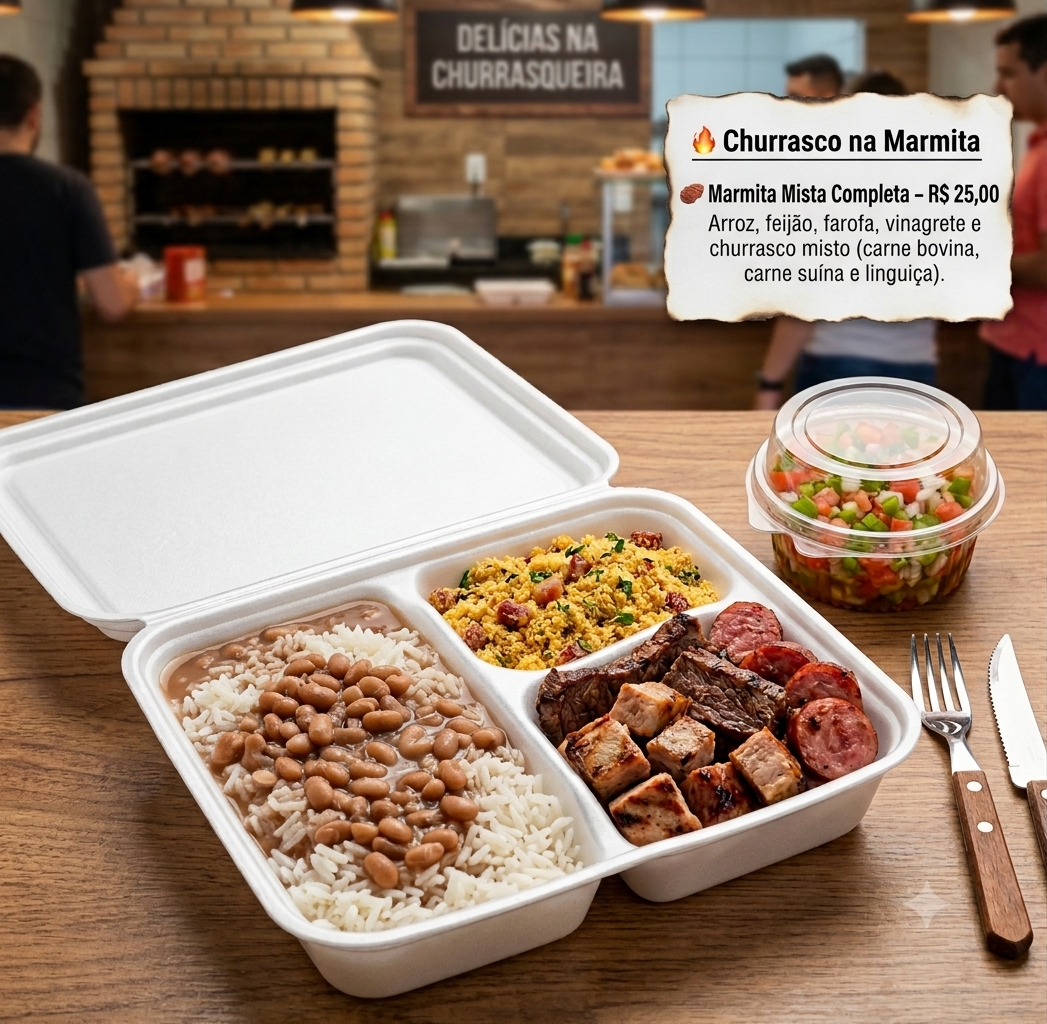
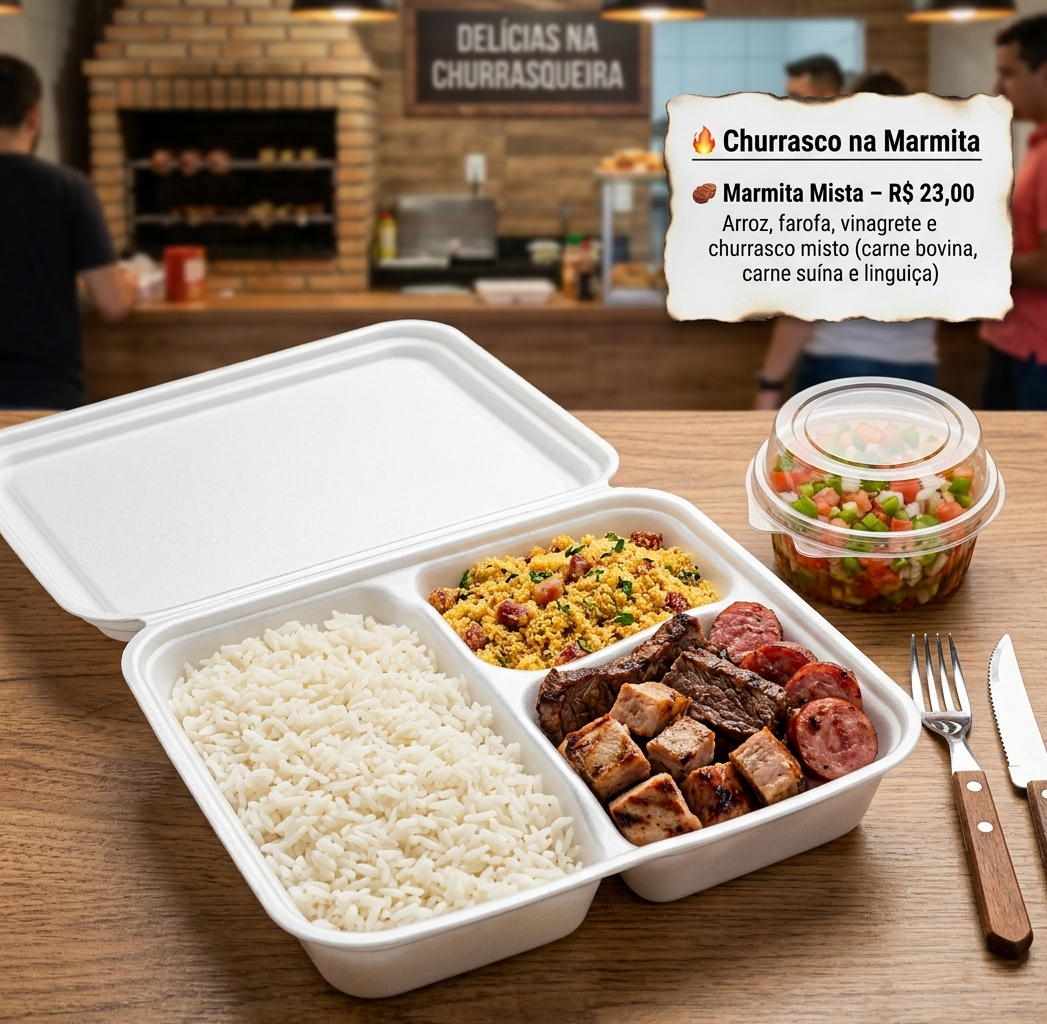
Todas as alterações foram aplicadas com sucesso. Aqui está o resumo do que foi feito:
Alteração	Descrição
Campo Bairro	Lista suspensa (<select>) com os 30 bairros, posicionada antes do campo Endereço
Linha Frete	Adicionada no resumo abaixo do Subtotal, exibe — enquanto nenhum bairro for selecionado
Mapeamento	Objeto shippingRates com todos os bairros e suas respectivas taxas (R
2
𝑎
𝑅
2aR 10)
Cálculo	renderCart() agora lê o bairro selecionado, calcula o frete e soma ao total
WhatsApp	Mensagem agora inclui: Bairro, Subtotal, Frete e Total separados
Validação	O bairro passou a ser obrigatório — sem selecionar, o botão exibe "Selecione o bairro para calcular o frete."
Reatividade	Ao trocar o bairro, o resumo (frete e total) atualiza instantaneamente

diff --git a/index.html b/index.html
@@ -327,7 +327,7 @@ window.addEventListener('message', function(ev) {
     </div>
     <div class="chips">
       <a class="chip" href="https://www.instagram.com/churrasco_marmita/" target="_blank" rel="noopener noreferrer">Instagram</a>
-      <a class="chip" href="https://wa.me/553193817229" target="_blank" rel="noopener noreferrer">[phone redacted]</a>
+      <a class="chip" href="https://wa.me/553193144890" target="_blank" rel="noopener noreferrer">[phone redacted]</a>
       <span class="chip">Rua das Seringueiras Nº 20, Bairro das Acácias, Lagoa Santa</span>
     </div>
   </div>
@@ -358,8 +358,44 @@ window.addEventListener('message', function(ev) {
               <input id="phone" placeholder="(31) [phone redacted]" />
             </div>
             <div>
-              <label class="label" for="address">Endereço opcional</label>
-              <textarea id="address" placeholder="Rua, número, complemento, bairro..."></textarea>
+              <label class="label" for="neighborhood">Bairro</label>
+              <select id="neighborhood" style="width:100%;box-sizing:border-box;padding:12px 14px;border:1px solid var(--color-border-default);border-radius:var(--radius-8);background:var(--color-bg-page);color:var(--color-text-primary);font-size:var(--text-small);font-family:inherit;">
+                <option value="">Selecione o bairro...</option>
+                <option value="Acácias">Acácias</option>
+                <option value="Vila Maria">Vila Maria</option>
+                <option value="Santa Helena">Santa Helena</option>
+                <option value="Vila Rica">Vila Rica</option>
+                <option value="Jardim Imperial">Jardim Imperial</option>
+                <option value="Por do Sol">Por do Sol</option>
+                <option value="Moradas">Moradas</option>
+                <option value="Vale Verde Ville">Vale Verde Ville</option>
+                <option value="Portal do Sol">Portal do Sol</option>
+                <option value="Jacques Vile">Jacques Vile</option>
+                <option value="Palmital">Palmital</option>
+                <option value="Vale dos Sonhos">Vale dos Sonhos</option>
+                <option value="Vila Fagundes">Vila Fagundes</option>
+                <option value="Sobradinho">Sobradinho</option>
+                <option value="Brant">Brant</option>
+                <option value="Campinho">Campinho</option>
+                <option value="Centro">Centro</option>
+                <option value="Barraginha">Barraginha</option>
+                <option value="Várzea">Várzea</option>
+                <option value="Bela Vista">Bela Vista</option>
+                <option value="Joa">Joa</option>
+                <option value="Santos Dumont">Santos Dumont</option>
+                <option value="Ovídeo Guerra">Ovídeo Guerra</option>
+                <option value="Ipê">Ipê</option>
+                <option value="Praia Angélica">Praia Angélica</option>
+                <option value="Novo Santos Dumont">Novo Santos Dumont</option>
+                <option value="Recanto">Recanto</option>
+                <option value="Aeronautas">Aeronautas</option>
+                <option value="Visão">Visão</option>
+                <option value="Lagoinha">Lagoinha</option>
+              </select>
+            </div>
+            <div>
+              <label class="label" for="address">Endereço</label>
+              <textarea id="address" placeholder="Rua, número, complemento..."></textarea>
             </div>
           </div>
         </div>
@@ -373,6 +409,7 @@ window.addEventListener('message', function(ev) {
           <div id="cartList" class="cart-list"></div>
           <div class="summary">
             <div class="summary-row"><span>Subtotal</span><strong id="subtotal">R$ 0,00</strong></div>
+            <div class="summary-row"><span>Frete</span><strong id="shipping">—</strong></div>
             <div class="summary-row total"><span>Total</span><strong id="total">R$ 0,00</strong></div>
           </div>
         </div>
@@ -398,11 +435,24 @@ window.addEventListener('message', function(ev) {
   ];
   const cart = Object.fromEntries(products.map(p => [p.id, 0]));
 
+  const shippingRates = {
+    'Acácias':2, 'Vila Maria':2, 'Santa Helena':2,
+    'Vila Rica':3, 'Jardim Imperial':3, 'Por do Sol':3, 'Moradas':3, 'Vale Verde Ville':3, 'Portal do Sol':3, 'Jacques Vile':3,
+    'Palmital':4, 'Vale dos Sonhos':4, 'Vila Fagundes':4,
+    'Sobradinho':5, 'Brant':5, 'Campinho':5,
+    'Centro':6, 'Barraginha':6,
+    'Várzea':7, 'Bela Vista':7,
+    'Joa':8, 'Santos Dumont':8, 'Ovídeo Guerra':8,
+    'Ipê':9, 'Praia Angélica':9, 'Novo Santos Dumont':9, 'Recanto':9,
+    'Aeronautas':10, 'Visão':10, 'Lagoinha':10
+  };
+
   const fmt = value => value.toLocaleString('pt-BR', { style:'currency', currency:'BRL' });
   const productsEl = document.getElementById('products');
   const cartListEl = document.getElementById('cartList');
   const subtotalEl = document.getElementById('subtotal');
   const totalEl = document.getElementById('total');
+  const shippingEl = document.getElementById('shipping');
   const cartCountEl = document.getElementById('cartCount');
   const statusEl = document.getElementById('status');
 
@@ -449,9 +499,12 @@ window.addEventListener('message', function(ev) {
     const selected = products.filter(p => cart[p.id] > 0);
     const totalItems = selected.reduce((sum,p) => sum + cart[p.id], 0);
     const subtotal = selected.reduce((sum,p) => sum + (cart[p.id] * p.price), 0);
+    const neighborhood = document.getElementById('neighborhood').value;
+    const shipping = shippingRates[neighborhood] || 0;
     cartCountEl.textContent = `${totalItems} ${totalItems === 1 ? 'item' : 'itens'}`;
     subtotalEl.textContent = fmt(subtotal);
-    totalEl.textContent = fmt(subtotal);
+    shippingEl.textContent = neighborhood ? fmt(shipping) : '—';
+    totalEl.textContent = fmt(subtotal + shipping);
 
     if(!selected.length){
       cartListEl.innerHTML = '<div class="empty">Seu carrinho está vazio. Escolha os itens e finalize em segundos.</div>';
@@ -479,33 +532,43 @@ window.addEventListener('message', function(ev) {
     const name = document.getElementById('name').value.trim();
     const phone = document.getElementById('phone').value.trim();
     const address = document.getElementById('address').value.trim();
+    const neighborhoodEl = document.getElementById('neighborhood');
+    const neighborhood = neighborhoodEl.value;
     const selected = products.filter(p => cart[p.id] > 0);
 
     if(!name) return showStatus('Preencha o nome do cliente.');
     if(!phone) return showStatus('Preencha o telefone do cliente.');
+    if(!neighborhood) return showStatus('Selecione o bairro para calcular o frete.');
     if(!selected.length) return showStatus('Adicione pelo menos um item ao pedido.');
 
-    const total = selected.reduce((sum,p) => sum + (cart[p.id] * p.price), 0);
+    const subtotal = selected.reduce((sum,p) => sum + (cart[p.id] * p.price), 0);
+    const shipping = shippingRates[neighborhood] || 0;
+    const total = subtotal + shipping;
     const itemsText = selected.map(p => `- ${p.name} x${cart[p.id]} = ${fmt(cart[p.id] * p.price)}`).join('%0A');
     const message = [
       '*Novo pedido - Churrasco na Marmita*',
       '',
       `*Nome:* ${name}`,
       `*Telefone:* ${phone}`,
+      `*Bairro:* ${neighborhood}`,
       address ? `*Endereço:* ${address}` : '*Endereço:* não informado',
       '',
       '*Pedido:*',
       itemsText.replace(/%0A/g,'\n'),
       '',
+      `*Subtotal:* ${fmt(subtotal)}`,
+      `*Frete:* ${fmt(shipping)}`,
       `*Total:* ${fmt(total)}`
     ].join('\n');
 
-    const url = `https://wa.me/553193817229?text=${encodeURIComponent(message)}`;
+    const url = `https://wa.me/553193144890?text=${encodeURIComponent(message)}`;
     window.open(url, '_blank', 'noopener,noreferrer');
     if (typeof sendPrompt === 'function') {
       sendPrompt(`Pedido iniciado no WhatsApp para Churrasco na Marmita. Cliente: ${name}.`);
     }
   });
+
+  document.getElementById('neighborhood').addEventListener('change', () => render());
 
   render();
 </script></body>